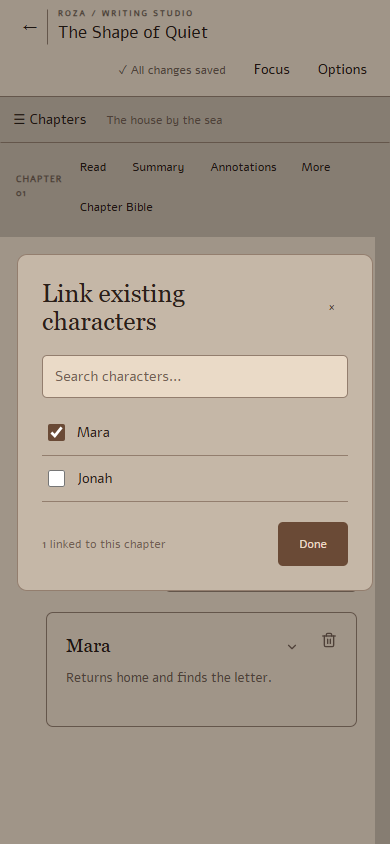
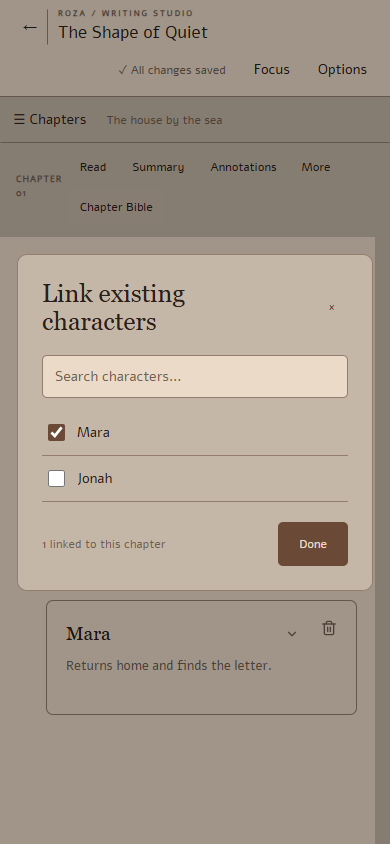
Compact entity toolbar search and actions

diff --git a/frontend/src/components/WritingStudio/chapterPlanning.css b/frontend/src/components/WritingStudio/chapterPlanning.css
@@ -533,3 +533,28 @@
   font-size: 12px;
   color: var(--ws-muted);
 }
+/* Keep a compact search opposite the smaller entity actions. */
+.cp-elements-tools .cp-elements-search {
+  flex: 0 1 360px;
+  max-width: 40%;
+}
+.cp-elements-tools > button:first-of-type {
+  margin-inline-start: auto;
+}
+.ws .cp-elements-tools > button {
+  font-size: 0.85em;
+  padding: 6.8px 10.2px;
+  gap: 6px;
+}
+.ws .cp-elements-tools > .ws-primary {
+  padding: 10.2px 17px;
+}
+@media (max-width: 760px) {
+  .cp-elements-tools {
+    flex-wrap: wrap;
+  }
+  .cp-elements-tools .cp-elements-search {
+    flex: 1 0 100%;
+    max-width: none;
+  }
+}
